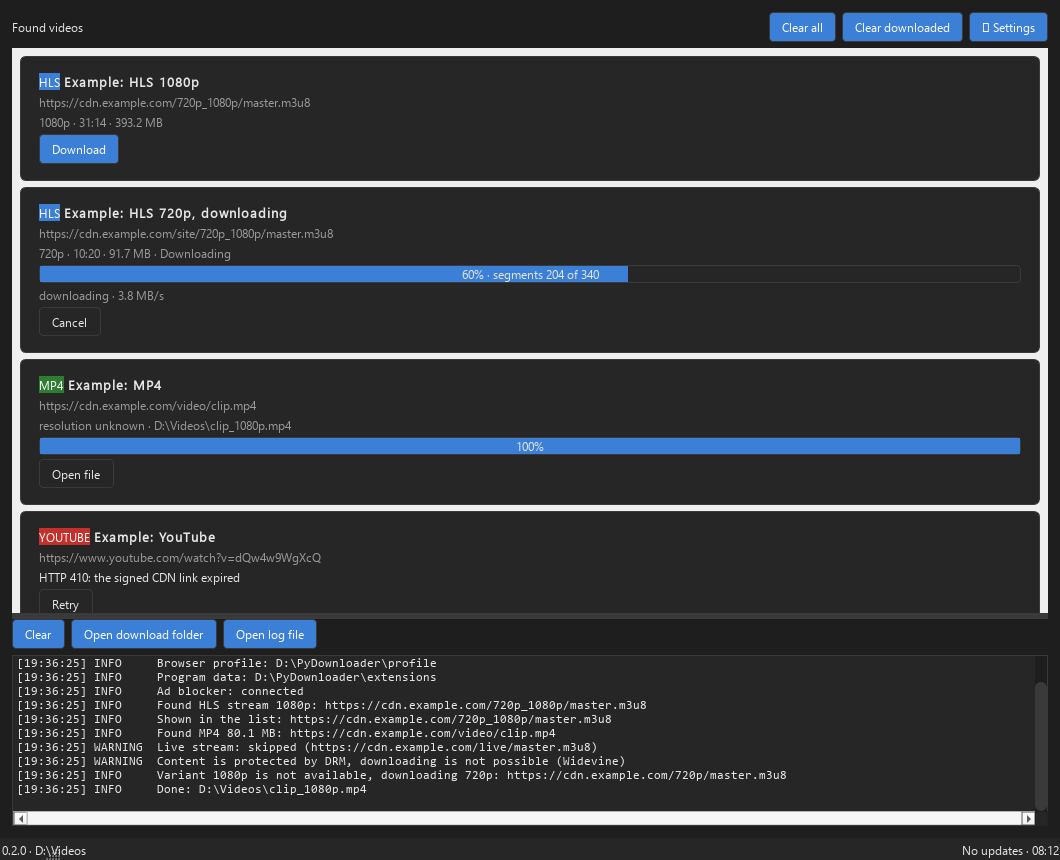
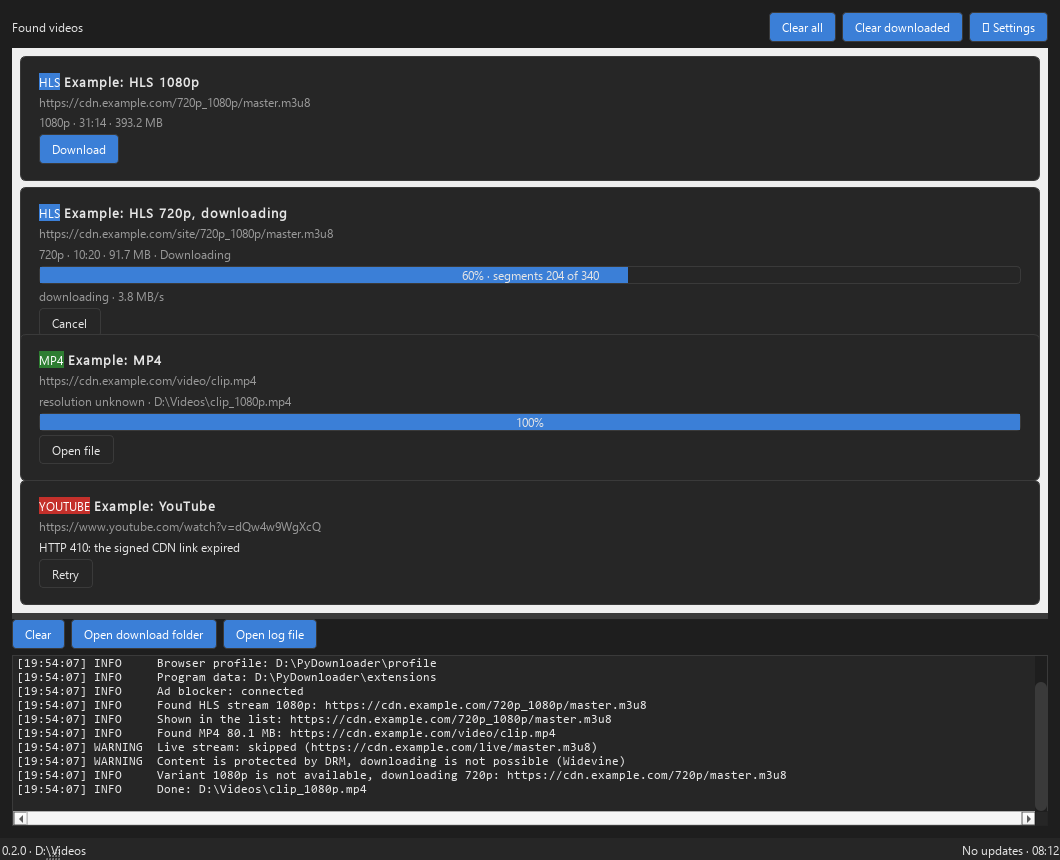
update

diff --git a/src/pydownloader/ui/main_window.py b/src/pydownloader/ui/main_window.py
@@ -140,6 +140,8 @@ class MainWindow(QMainWindow):
         area.setFrameShape(QFrame.Shape.NoFrame)
         area.setWidget(container)
         self.scroll_area = area
+        self.card_container = container
+        self._sync_card_heights()
 
         header = QHBoxLayout()
         header.addWidget(QLabel(tr("window_found_videos")))
@@ -250,6 +252,7 @@ class MainWindow(QMainWindow):
         self.cards[entry.id] = card
         self.cards_layout.insertWidget(self.cards_layout.count() - 1, card)
         self.hint_label.hide()
+        self._sync_card_heights()
         self.log_info(tr("window_shown", url=entry.url))
 
     def _start_download(self, entry_id: str) -> None:
@@ -267,6 +270,7 @@ class MainWindow(QMainWindow):
         card = self.cards.get(entry_id)
         if card is not None:
             card.set_error(tr("card_cancelled"))
+            self._sync_card_heights()
 
     def clear_all_cards(self) -> None:
         """«Очистить все»: remove every found video from the list.
@@ -308,29 +312,56 @@ class MainWindow(QMainWindow):
 
     def _update_hint(self) -> None:
         self.hint_label.setVisible(not self.cards)
+        self._sync_card_heights()
+
+    def _sync_card_heights(self) -> None:
+        """Keep the whole list of cards reachable when it does not fit.
+
+        A resizable scroll area resizes its widget to the viewport, and the layout
+        minimum of a widget that is not a top-level window is never propagated to
+        it, so a long list of cards was squeezed and the part below the viewport
+        could not be scrolled. The floor is written into the widget by hand from
+        the floors of the cards: the scroll area shows a scrollbar, every card
+        keeps its height, the buttons keep their text (spec 4.1 p.1).
+        """
+        cards = list(self.cards.values())
+        visible = self.hint_label.isVisible()
+        height = sum(card.minimumHeight() for card in cards)
+        if visible:
+            height += self.hint_label.sizeHint().height()
+        items = len(cards) + (1 if visible else 0)
+        if items > 1:
+            height += self.cards_layout.spacing() * (items - 1)
+        height += 16  # the top and bottom margin of cards_layout
+        if self.card_container.minimumHeight() != height:
+            self.card_container.setMinimumSize(0, height)
 
     def _task_started(self, entry_id: str, name: str) -> None:
         card = self.cards.get(entry_id)
         if card is not None:
             card.set_state("downloading")
+            self._sync_card_heights()
             self.log_info(tr("window_download_started", title=name))
 
     def _task_progress(self, entry_id: str, done: int, total: int) -> None:
         card = self.cards.get(entry_id)
         if card is not None:
             card.set_progress(done, total)
+            self._sync_card_heights()
 
     def _task_finished(self, entry_id: str, path: str) -> None:
         card = self.cards.get(entry_id)
         if card is not None:
             self.out_paths[entry_id] = Path(path)
             card.set_result(path)
+            self._sync_card_heights()
         self.log_info(tr("window_finished", path=path))
 
     def _task_failed(self, entry_id: str, message: str) -> None:
         card = self.cards.get(entry_id)
         if card is not None:
             card.set_error(message)
+            self._sync_card_heights()
         self.log_error(tr("window_task_failed", title=message))
 
     def _open_result_file(self, entry_id: str) -> None:

diff --git a/src/pydownloader/ui/card.py b/src/pydownloader/ui/card.py
@@ -108,10 +108,15 @@ class SourceCard(QFrame):
         self.setObjectName("card")
         # The height comes from the layout (labels, progress bar, buttons): an
         # explicit minimum used to win over the layout minimum and squeezed the
-        # «Скачать» button to a few pixels once several cards shared the viewport.
-        self.setSizePolicy(QSizePolicy.Policy.Preferred, QSizePolicy.Policy.Fixed)
+        # download button to a few pixels once several cards shared the viewport.
+        # ``Fixed`` behaved the same way in a scroll area: when the cards did not
+        # fit, the layout shrank them below their size hint. ``Minimum`` keeps the
+        # size hint as the floor, so the scroll area shows a scrollbar instead of
+        # cutting the button off (spec 4.1 p.1).
+        self.setSizePolicy(QSizePolicy.Policy.Preferred, QSizePolicy.Policy.Minimum)
 
         layout = QVBoxLayout(self)
+        self._layout = layout
         layout.setContentsMargins(10, 8, 10, 8)
         layout.setSpacing(4)
 
@@ -159,6 +164,10 @@ class SourceCard(QFrame):
         row = QHBoxLayout()
         self.download_button = QPushButton(tr("card_download"))
         self.download_button.setObjectName("download")
+        # The floor of the button is its own hint: a squeezed layout can give an
+        # item less than minimumSizeHint(), and the text of «Download» disappeared
+        # with the last pixel of the row. minimumSize() is the hard floor of QLayout.
+        self.download_button.setMinimumSize(self.download_button.minimumSizeHint())
         self.download_button.clicked.connect(lambda: self.download_clicked.emit(self.entry.id))
         row.addWidget(self.download_button)
 
@@ -182,6 +191,21 @@ class SourceCard(QFrame):
 
         row.addStretch(1)
         layout.addLayout(row)
+
+        self._update_floor()
+
+    def _update_floor(self) -> None:
+        """The card never shrinks below the height of its own widgets.
+
+        A resizable scroll area resizes its widget to the viewport, and QLayout
+        squeezes the items below ``minimumSizeHint`` when the space is short: with
+        a long list of cards the labels and the button lost their lines. The hint
+        of the layout is written into ``minimumSize``, the hard floor of QLayout,
+        so every card keeps the height of its labels, bar and buttons (spec 4.1 p.1).
+        """
+        hint = self._layout.totalSizeHint()
+        if self.minimumHeight() != hint.height():
+            self.setMinimumSize(0, hint.height())
 
     def _copy_menu(self, position) -> None:
         menu = QMenu(self)
@@ -213,6 +237,7 @@ class SourceCard(QFrame):
         elif state == "new":
             self.bar.setValue(0)
         self._refresh_meta()
+        self._update_floor()
 
     def set_progress(self, done: int, total: int, speed_mb: float | None = None) -> None:
         """Segments downloaded, percentage and speed inside the card (spec 4.1 p.3)."""

diff --git a/tests/test_ui.py b/tests/test_ui.py
@@ -253,6 +253,28 @@ def test_download_button_keeps_its_height_with_many_cards(qtbot, tmp_path):
         assert card.height() >= card.sizeHint().height()
 
 
+def test_card_list_scrolls_when_cards_do_not_fit(qtbot, tmp_path):
+    """The cards below the viewport stay reachable, not cut off (spec 4.1 p.1)."""
+    window = make_window(tmp_path)
+    qtbot.addWidget(window)
+    window.resize(900, 600)
+    window.show()
+    for index in range(5):
+        window.add_source(entry(f"s{index}"))
+    qtbot.wait(50)
+    cards = list(window.cards.values())
+    # The floor of the container is the floor of the cards, so the scroll area
+    # gets a range to scroll and the widget is not resized to the viewport.
+    assert window.card_container.minimumHeight() >= sum(
+        card.sizeHint().height() for card in cards
+    )
+    assert window.scroll_area.verticalScrollBar().maximum() > 0
+    # A state with more lines (progress bar, stage) raises the floor of the card.
+    cards[0].set_state("downloading")
+    qtbot.wait(50)
+    assert cards[0].minimumHeight() >= cards[0].sizeHint().height()
+
+
 def test_window_splitter_ratio(qtbot, tmp_path):
     window = make_window(tmp_path)
     qtbot.addWidget(window)
